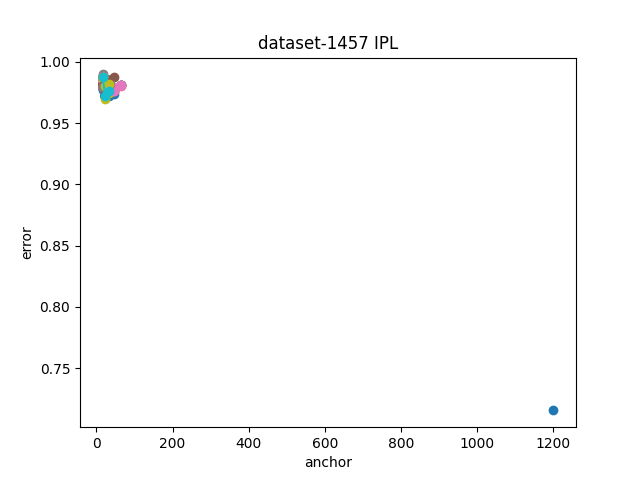
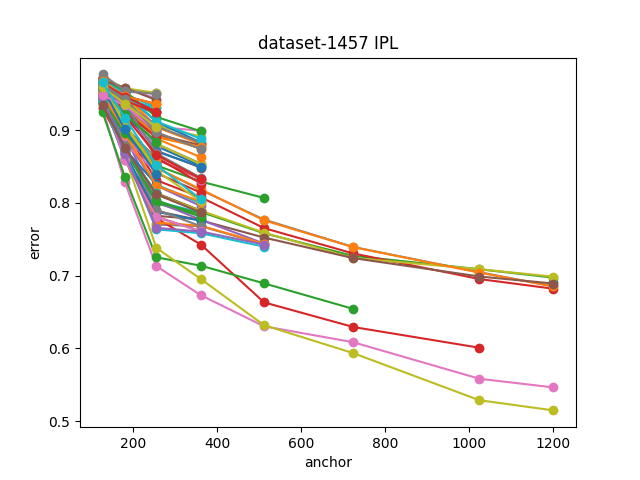
changed start anchor

diff --git a/A2/run_experiment.py b/A2/run_experiment.py
@@ -47,12 +47,12 @@ def experiment(vertical_eval,iterations,config_space,name):
     return evalutations,best_so_far
 
 
-def run(config_space,data_file,nr_iterations,nr_experiments):
+def run(config_space,data_file,nr_iterations,nr_experiments,min_anchor):
     name = data_file.split('_')[-1][:-4]
     df = pd.read_csv(data_file)
     surrogate_model = SurrogateModel(config_space)
     surrogate_model.fit(df)
-    anchors = sorted(df['anchor_size'].unique())
+    anchors = sorted(df.loc[df.anchor_size>=min_anchor,'anchor_size'].unique())
     print('surrogate model fitted')
 
     # LCCV
@@ -86,21 +86,25 @@ def run(config_space,data_file,nr_iterations,nr_experiments):
 if __name__ == '__main__':
     root = logging.getLogger()
     root.setLevel(logging.INFO)
-  
+    
     config_space = ConfigSpace.ConfigurationSpace.from_json('lcdb_config_space_knn.json')
     data_files = ['config_performances_dataset-6.csv',
                   'config_performances_dataset-11.csv',
                   'config_performances_dataset-1457.csv']
     nr_iterations = 100
     nr_experiments = 20
+    data_file_names = [data_file.split('_')[-1][:-4] for data_file in data_files]
+    min_anchor = {'dataset-6':16,
+                  'dataset-11':32,
+                  'dataset-1457':128}
     tuples = [(a,b) for a,b in product(['LCCV','IPL'],['score','evaluations'])]
     index = pd.MultiIndex.from_tuples(tuples,names=['method','score'])
-    columns=[data_file.split('_')[-1][:-4] for data_file in data_files]
+    columns = data_file_names
     result_df = pd.DataFrame(columns=columns ,index=index)
 
     for data_file,name in zip(data_files,columns):
         print(name)
-        result = run(config_space,data_file,nr_iterations,nr_experiments)
+        result = run(config_space,data_file,nr_iterations,nr_experiments,min_anchor[name])
         result_df[name] = result 
         result_df.to_csv('comparison_results.csv')
 
